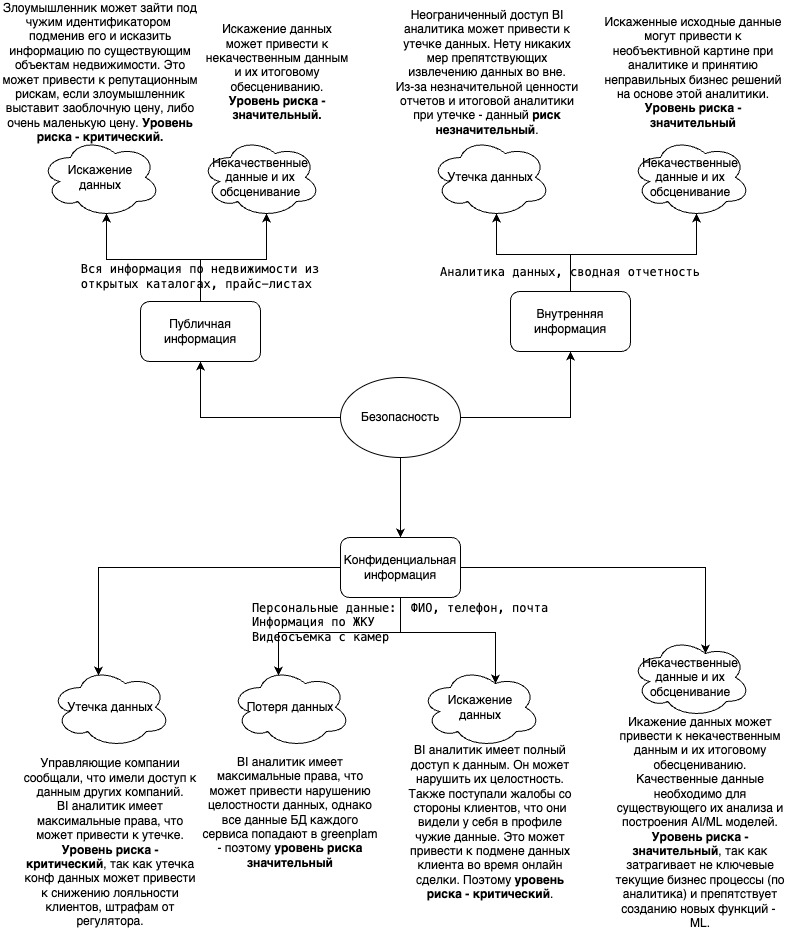
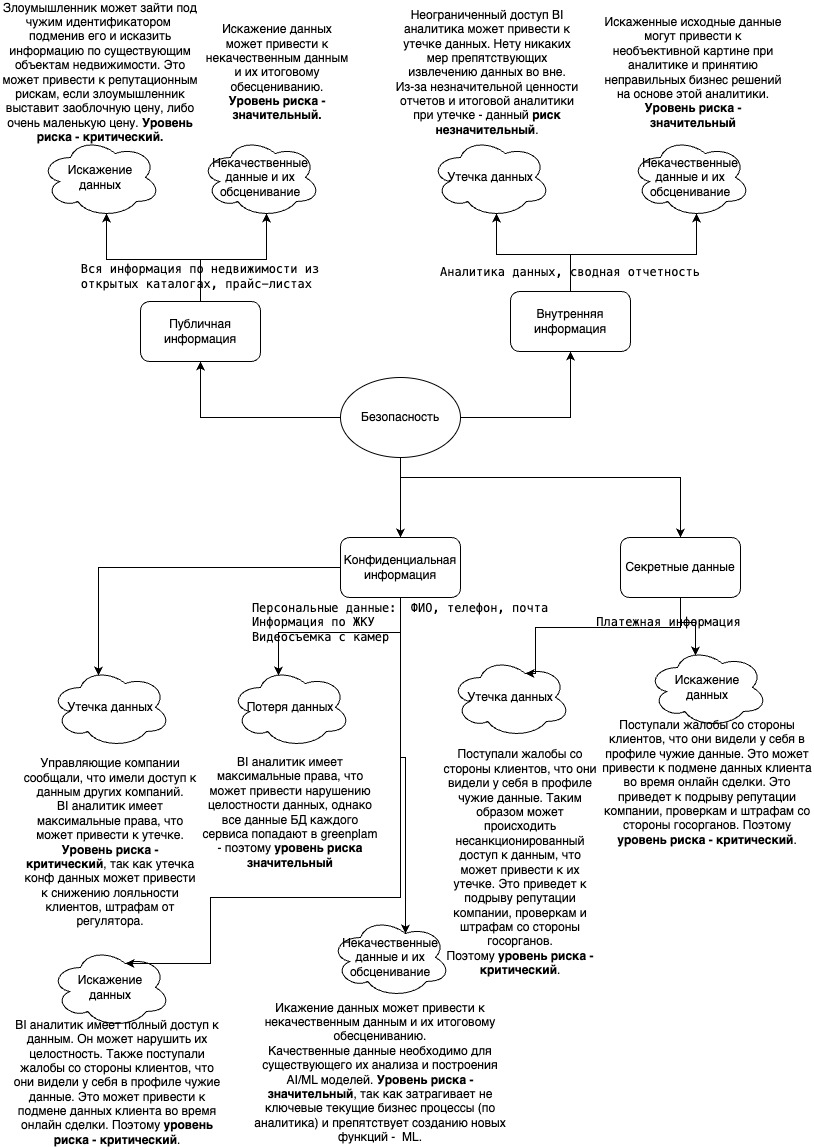
Fixed task1 and task3

diff --git a/Task3/security_requirements.md b/Task3/security_requirements.md
@@ -16,3 +16,5 @@
 - Добавлять номера машин могут только авторизованные собственники жилья и доступ на проезд по номеру машин привязываются только к определенным домам, которым владеет собственник. Тоже самое происходит и для интелектуального домофона. Разграничение доступа происходит на основе ABAC.
 - Собственник может отзывать разрешения на вход по номеру машины и биометрии.
 - Авторизация и аутентификация пользователей происходит по протоколу OAuth 2.0. с использованием JWT.
+- Вход собственника в приложение происходит с использованием MFA - ввод пароля + ввод одноразового пароля отправленного по СМС/email.
+- Все действия пользователя - по удачным/недуачным попыткам аутентификации/авторизации, добавлению нового номера машины, разрешение и отзыву входа по лицу, ... - должны логироваться (например с использованием стека ELK) с целью последующего аудита, повышения прозрачности системы и расследования инцидентов ИБ, либо предоставление информации для регулятора по требованию.
